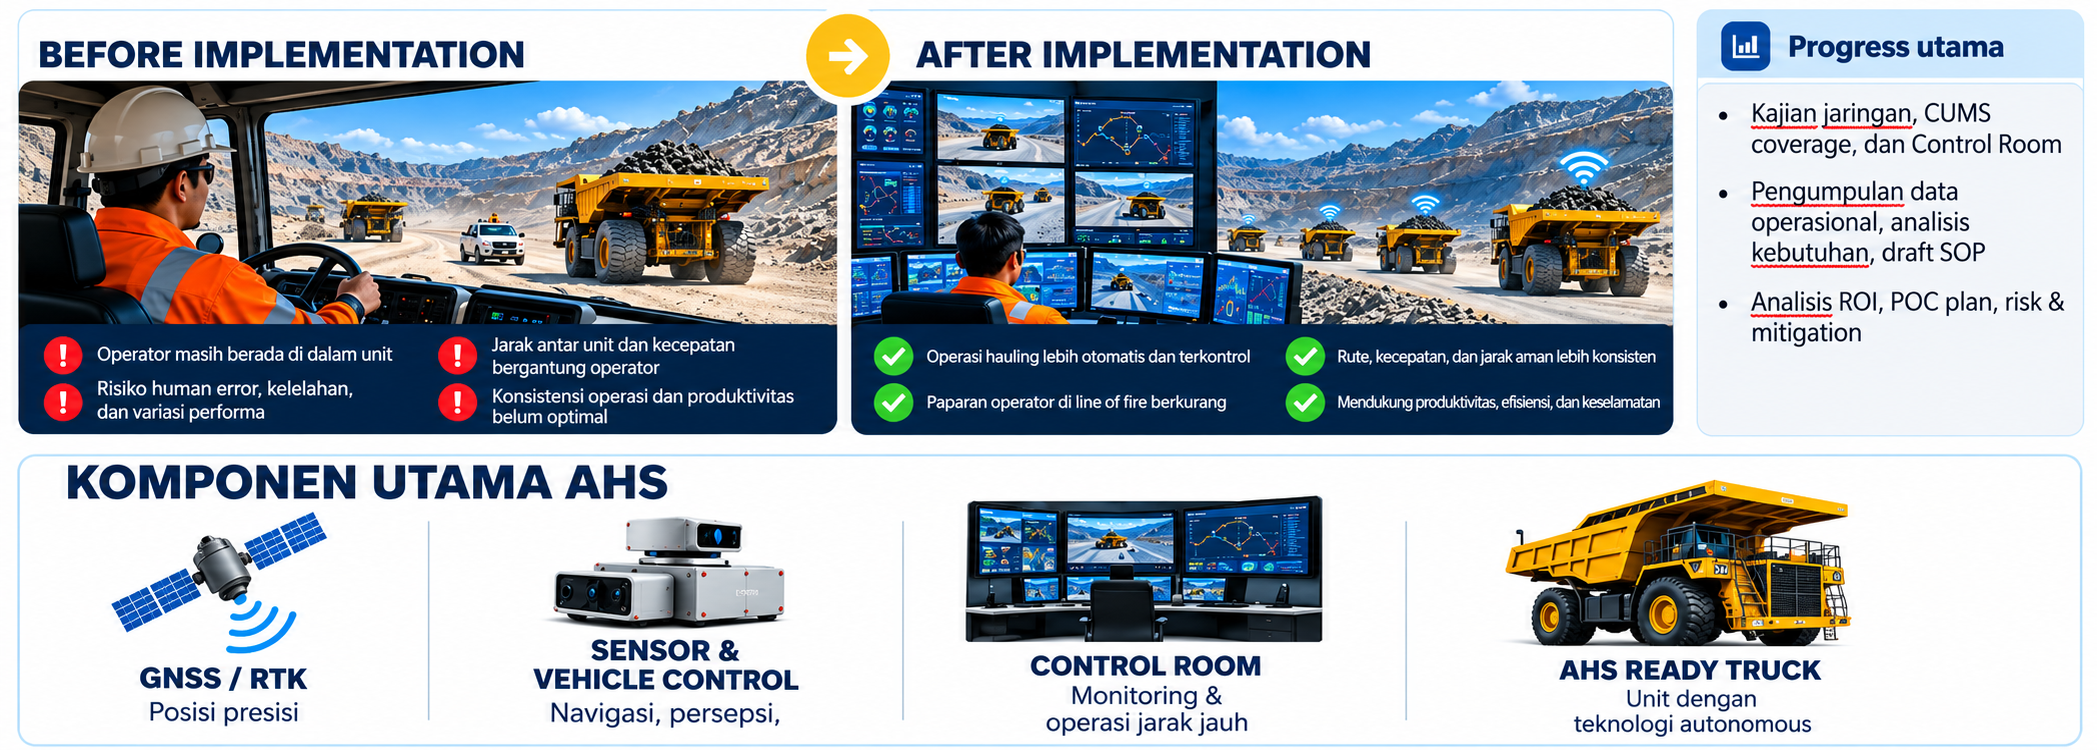
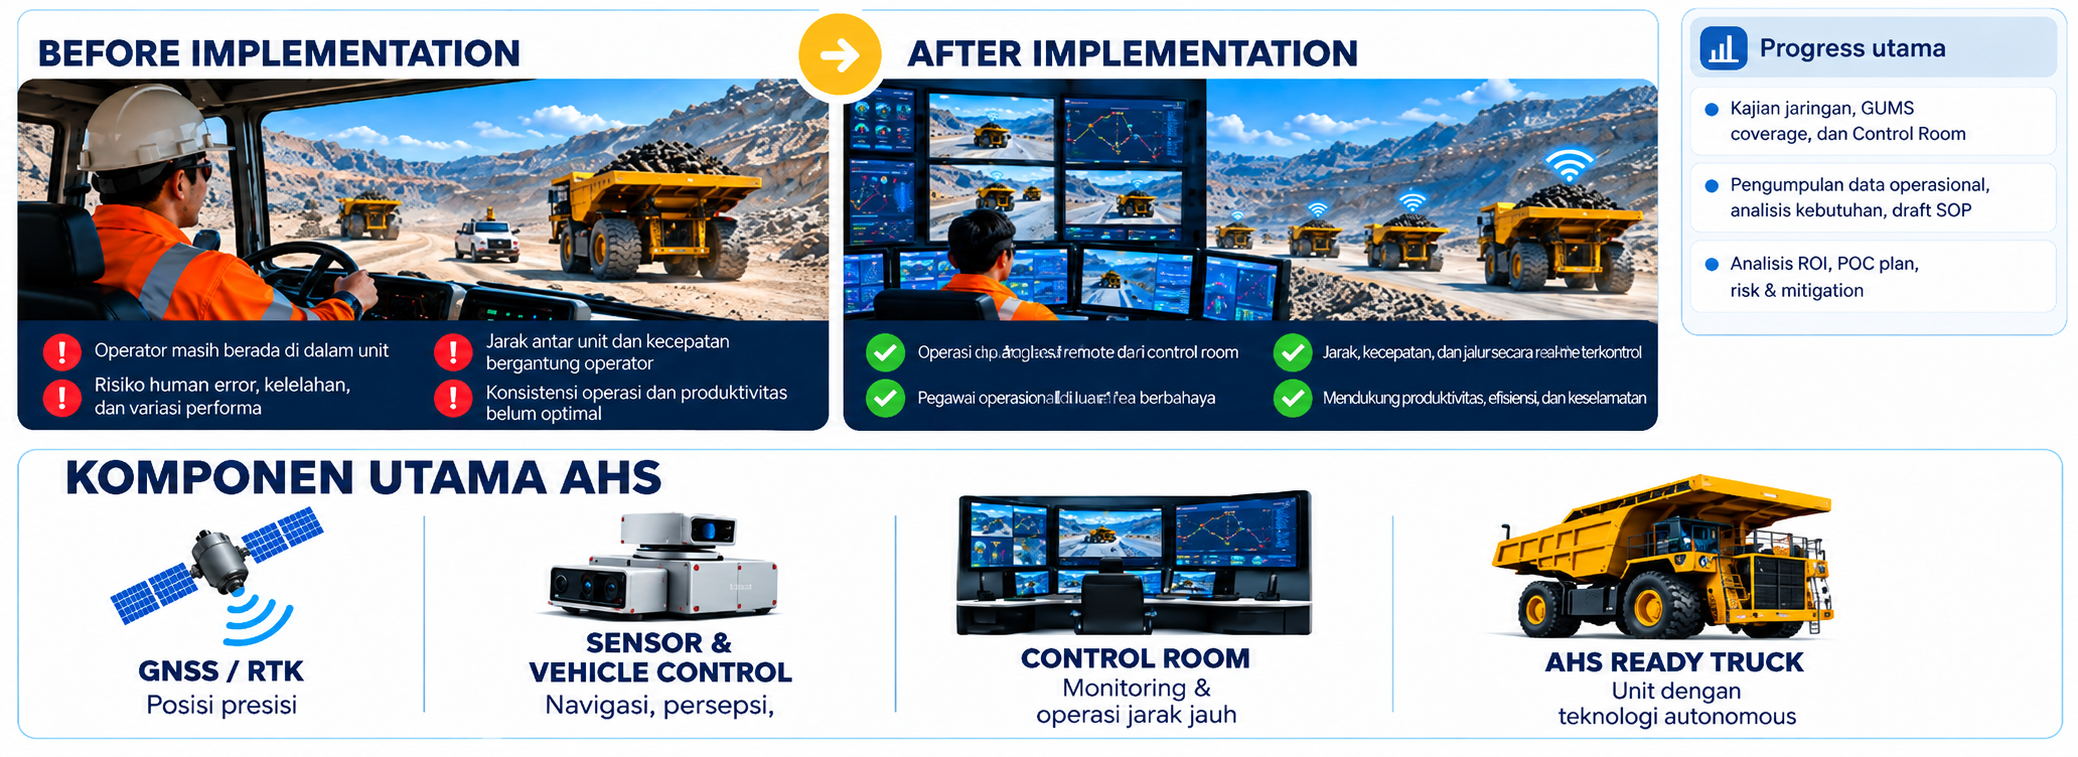
test

diff --git a/q3.html b/q3.html
@@ -11184,10 +11184,11 @@
     trans:{ title:'Transformation', sub:'Build Capabilities for Sustainable Operations', ic:'trend',
       rows:[['server','Perkuatan Infrastruktur Teknologi untuk Implementasi Project Rekayasa Engineering &amp; OBDS','IT, Budget, Procurement',['Oct 2026']],
             ['link','Koneksi API HSE Automation dengan Project Rekayasa Engineering &amp; OBDS','IT, Minetech',['Oct 2026']],
-            ['bars','Development Analytical Critical Control (use case CCV)','IT, Minetech',['Dec 2026']]] },
+            ['bars','Development Analytical Critical Control (use case CCV)','IT, Minetech',['Dec 2026']],
+            ['warn','Continue Progress Ideation Remote Blasting','System, MNO, Olive Link',['Q4 2026']],
+            ['dozer','Eskalasi IM yang proses on-hold untuk melanjutkan proses implementasi Remote Dozer','GMO, CM',['Q4 2026']]] },
     auto:{ title:'Automation', sub:'Accelerate Automation for Higher Productivity &amp; Safety', ic:'gear',
-      rows:[['truck','Implementasi Hauling Automation &amp; Ideation Remote Blasting','System, MNO, Olive Link',['Q4 2026']],
-            ['dozer','Eskalasi IM yang proses on-hold untuk melanjutkan proses implementasi Remote Dozer','GMO, CM',['Q4 2026']]] }
+      rows:[['truck','Continue Progress Implementasi Hauling Automation','System, MNO, Olive Link',['Q4 2026']]] }
   };
   (function(){
     const IC = {
@@ -11220,7 +11221,7 @@
       + '<span class="cd-pill"><i>' + svg(P.ic) + '</i><span><small>Program Q4 2026</small><b>' + count(P) + ' inisiatif</b></span></span>';
     const colh = '<div class="cd-colh"><i></i><span>Initiative / Program</span><span>'+svg('user')+'Responsible Division</span><span>'+svg('cal')+'Target</span></div>';
     const NS = {'Digitalisasi &amp; Integrasi Data OHS Scorecard': 'Penyediaan akses dan integrasi database, kesepakatan standardisasi KPI, serta dukungan pengembangan sistem.', 'Perkuatan Pengelolaan Tools termasuk Inventarisasi &amp; Inspeksi Tools': 'Inventarisasi tools, penetapan standar kelayakan, pelaksanaan inspeksi berkala, serta tindak lanjut tools tidak layak.', 'Implementasi BIMTEK dan peningkatan kapabilitas pengawasan RIC': 'Penentuan sasaran BIMTEK, pelaksanaan pelatihan, evaluasi kompetensi, dan verifikasi penerapan hasil pelatihan di lapangan.', 'Kontrol aktivitas pekerja di Luar Kabin melalui intervensi BeSigma': 'Kesiapan sistem BeSigma, ketentuan PIC intervensi operasional, serta komitmen pengawas terhadap intervensi.', 'Antisipasi geoteknikal hazard dengan peningkatan utilisasi BeSigma &amp; integrasi dengan Working Permit': 'Identifikasi area berisiko geoteknik, penetapan trigger deteksi, integrasi dengan Working Permit, serta penguatan verifikasi kontrol sebelum pekerjaan.', 'Percepatan Pemenuhan Prioritas Rekayasa Engineering': 'Identifikasi prioritas dan anggaran, dukungan engineering/procurement, serta komitmen pemenuhan untuk eksekusi.', 'Perbaikan mirroring &amp; connectivity kondisi CCTV terutama pada area kritis': 'Dukungan infrastruktur jaringan, penyediaan perangkat/bandwidth, akses teknis lapangan, dan kesepakatan prioritas CCTV area kritis.'};
-    const row = ([ic, t, div, tg])=> '<div class="cd-row"><span class="ic">'+svg(ic)+'</span><p>'+t+(NS[t] ? '<small class="ns"><b>Need support:</b> '+NS[t]+'</small>' : '')+'</p><span class="div">'+div+'</span>'
+    const row = ([ic, t, div, tg])=> '<div class="cd-row"><span class="ic">'+svg(ic)+'</span><p>'+t+(NS[t] ? '<small class="ns">'+NS[t]+'</small>' : '')+'</p><span class="div">'+div+'</span>'
       + '<span class="tg">'+tg.map(x=> '<i>'+svg('cal')+x+'</i>').join('')+'</span></div>';
     const S = CROSSDIV, fill = (id, h)=>{ const el = document.getElementById(id); if(el) el.innerHTML = h; };
     fill('cdStab', head(S.stab) + '<div class="cd-body">' + colh + S.stab.groups.map(([g, ic, rows])=> '<div class="cd-grp" style="flex-grow:'+rows.length+'"><span class="cd-gl">'+svg(ic)+'<b>'+g+'</b></span><div class="cd-rows">'+rows.map(row).join('')+'</div></div>').join('') + '</div>');
@@ -11580,6 +11581,7 @@
     if(!host._ro && 'ResizeObserver' in window){ host._ro = new ResizeObserver(()=> c.resize()); host._ro.observe(host); }
   }
   const SM_OBDS_CARDS = '<article class="ob-card live"><span class="tag">LIVE</span><b>BeARC — Access Control</b><em>Sistem dapat menolak akses berdasarkan rule dan exception yang telah dikunci</em><ul><li>Scope terbatas: personel Safety/HSE BC &amp; mitra</li><li>Data: RFID, SAP, dan TBC</li><li>Output: ban–unban dan audit trail</li><li>Kontrol akses dijalankan otomatis sesuai rule yang telah dikunci</li></ul><span class="foot">Existing Foundation</span></article><article class="ob-card init"><span class="tag">INITIAL STAGE</span><b>Initial Performance Trigger</b><em>Sistem mendeteksi dan membuat tasklist; validasi, tindakan, closure tetap memiliki human accountability</em><ul><li>Sembilan rule prioritas</li><li>Output: alert, tasklist, escalation, evidence</li><li>PJO/PIC memvalidasi dan menindaklanjuti</li><li>SOD memvalidasi tindaklanjut yang diajukan</li></ul><span class="foot">Initial implementation / pilot</span></article>';
+  const ARCAS_PROG = ['Kajian jaringan, CUMS coverage, dan Control Room', 'Pengumpulan data operasional, analisis kebutuhan, draft SOP', 'Analisis ROI, POC plan, risk &amp; mitigation'];
   function smRichHtml(a, prev, next){
     const P = a.P;
     return '<div class="smc-in">'
@@ -11596,7 +11598,7 @@
           : a.id === 'arcas' ? SM_MIR.replace('mom/mir-visual.jpg', 'mom/arcas-fix.jpg').replace('<div class="mx-full">', '<div class="mx-full mx-haul">').replace('Motion Intelligent Rover (MIR): before dan after implementation serta cara kerja', 'ARCAS HD 3327: before dan after implementation, cara kerja, dan dampak utama')
           : a.id === 'haul' ? SM_MIR.replace('mom/mir-visual.jpg', 'mom/hauling-fix.jpg').replace('<div class="mx-full">', '<div class="mx-full mx-haul mx-noprog">').replace('Motion Intelligent Rover (MIR): before dan after implementation serta cara kerja', 'Hauling Automation: before dan after implementation, komponen utama AHS, dan progress')
           : a.id === 'eyes' ? SM_MIR.replace('mom/mir-visual.jpg', 'mom/mea-fix.jpg').replace('Motion Intelligent Rover (MIR): before dan after implementation serta cara kerja', 'Mining Eyes Analytics: before dan after implementation, use case utama, dan progress')
-          : SM_MIR).replace('</div>', '<aside class="mx-prog"><h5><i>' + SM_SVG.chart + '</i>Progress utama</h5><ul>' + smLi(P.prog) + '</ul></aside></div>') : SM_CCX) + '</div>'
+          : SM_MIR).replace('</div>', '<aside class="mx-prog"><h5><i>' + SM_SVG.chart + '</i>Progress utama</h5><ul>' + smLi(a.id === 'arcas' ? ARCAS_PROG : P.prog) + '</ul></aside></div>') : SM_CCX) + '</div>'
       + '<footer class="smc-f"><button type="button" class="smc-btn" data-go="' + prev.id + '">' + SM_SVG.back + prev.name + '</button>'
       + '<button type="button" class="smc-btn main" data-go="">' + SM_SVG.back + 'Kembali ke peta</button>'
       + '<button type="button" class="smc-btn" data-go="' + next.id + '">' + next.name + SM_SVG.next + '</button></footer></div>';
@@ -11894,7 +11896,7 @@
         hazard:['High-risk activity yang tidak terpantau langsung oleh pengawas','Pelanggaran critical control pada aktivitas kritis'],
         prog:['33 high-risk activity + 29 CCV menjadi use case Mining Eyes Analytic','2025: trial &amp; rollout 3 aktivitas kritis','Q1 2026: perluasan trial ke 15 aktivitas kritis','Q3 2026: pendetailan CPP dan pengembangan Critical Control CPP','Use case pada lokasi dinamis dan statis'],
         rnd:['Q4 2026: analytic &amp; expand','Enhanced Mining Eyes Analytic sebagai key project'] },
-      haul:{ name:'Hauling Automation', sub:'Monitoring &amp; kontrol armada hauling', img:'mom/hauling-automation.jpg', stage:'Monitoring armada berjalan',
+      haul:{ name:'Hauling Automation', sub:'Monitoring &amp; kontrol armada hauling', img:'mom/hauling-automation.jpg', stage:'Feasibility Study',
         hazard:['Kecepatan berlebih dan jarak beriringan','Fatigue pengemudi','Interaksi unit besar dan kendaraan kecil'],
         prog:['Driver Monitoring System (DMS) untuk fatigue dan distraksi','Pemantauan armada dan batas kecepatan per segmen dari control room','Kinerja RIC DMS dipantau sebagai leading indicator teknologi'],
         rnd:['Integrasi ARCAS dengan sistem hauling','Otomasi pengaturan lalu lintas hauling'] }
